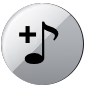
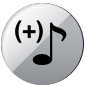
"Tunemarks" working again.

Changed region(s): [[0.2791, 0.2326, 0.7907, 0.7674], [0.1628, 0.2326, 0.4186, 0.5116]]

diff --git a/RP HD/RPViewController.m b/RP HD/RPViewController.m
@@ -15,7 +15,7 @@
 #import "Song.h"
 #import "RPViewController+UI.h"
 
-@interface RPViewController () <UIPopoverControllerDelegate, RPLoginControllerDelegate, RPSleepSetupDelegate, AVAudioSessionDelegate>
+@interface RPViewController () <UIPopoverControllerDelegate, RPLoginControllerDelegate, RPSleepSetupDelegate, AVAudioSessionDelegate, UIActionSheetDelegate>
 
 @end
 
@@ -217,6 +217,9 @@
              DLog(@"Song id is %@.", self.currentSongId);
              // In any case, reset the "add song" capability (we have a new song, it seems).
              self.songIsAlreadySaved = NO;
+             [self.songListButton setImage:[UIImage imageNamed:@"button-addsong"] forState:UIControlStateNormal];
+             [self.songListButton setImage:[UIImage imageNamed:@"button-addsong"] forState:UIControlStateHighlighted];
+             [self.songListButton setImage:[UIImage imageNamed:@"button-addsong"] forState:UIControlStateSelected];
              // Reschedule ourselves at the end of the song
              if(self.theStreamMetadataTimer != nil)
              {
@@ -705,7 +708,30 @@
     [self playPSDNow];
 }
 
-- (IBAction)showSongsList:(id)sender
+- (IBAction)songListAction:(id)sender
+{
+    if(self.songIsAlreadySaved)
+    {
+        [self showSongList];
+        return;
+    }
+    UIActionSheet *theChoices = [[UIActionSheet alloc] initWithTitle:@"What do you want do to?" delegate:self cancelButtonTitle:@"Nothing" destructiveButtonTitle:nil otherButtonTitles:@"Show Song List", @"Save Song", nil];
+    if(UI_USER_INTERFACE_IDIOM() == UIUserInterfaceIdiomPad)
+        [theChoices showFromRect:self.songListButton.frame inView:self.view animated:YES];
+    else
+        [theChoices showInView:self.view];
+}
+
+- (void)actionSheet:(UIActionSheet *)actionSheet clickedButtonAtIndex:(NSInteger)buttonIndex
+{
+    DLog(@"User choose: %d", buttonIndex);
+    if(buttonIndex == 0)
+        [self showSongList];
+    else if(buttonIndex == 1)
+        [self addCurrentSong];
+}
+
+- (void)showSongList
 {
     SongsViewController *theSongsBox = [[SongsViewController alloc] initWithNibName:@"SongsViewController" bundle:[NSBundle mainBundle]];
     if(UI_USER_INTERFACE_IDIOM() == UIUserInterfaceIdiomPad)
@@ -713,16 +739,15 @@
     else
         theSongsBox.modalPresentationStyle = UIModalPresentationFullScreen;
     [self presentViewController:theSongsBox animated:YES completion:nil];
-    theSongsBox = nil;
+    theSongsBox = nil;    
 }
 
-- (IBAction)addCurrentSong:(id)sender
+- (void)addCurrentSong
 {
     // Recover song data...
     NSArray *songPieces = [self.rawMetadataString componentsSeparatedByString:@" - "];
     if([songPieces count] == 2)
     {
-        self.songIsAlreadySaved = YES;
         // No save for RP metadata filler
         if([[songPieces objectAtIndex:0] isEqualToString:@"Commercial-free"])
             return;
@@ -734,8 +759,12 @@
             NSString *temp = [NSString stringWithFormat:@"While saving the song got the error %@, %@", err, [err userInfo]];
             UIAlertView *alert = [[UIAlertView alloc] initWithTitle:@"Error" message:temp delegate:nil cancelButtonTitle:@"Cancel" otherButtonTitles: nil];
             [alert show];
-            self.songIsAlreadySaved = NO;
+            return;
         }
+        self.songIsAlreadySaved = YES;
+        [self.songListButton setImage:[UIImage imageNamed:@"button-songlist"] forState:UIControlStateNormal];
+        [self.songListButton setImage:[UIImage imageNamed:@"button-songlist"] forState:UIControlStateHighlighted];
+        [self.songListButton setImage:[UIImage imageNamed:@"button-songlist"] forState:UIControlStateSelected];
     }
     else
     {

diff --git a/RP HD/RPViewController.h b/RP HD/RPViewController.h
@@ -101,8 +101,7 @@ typedef enum {
 - (IBAction)presentRPWeb:(id)sender;
 - (IBAction)minimizer:(id)sender;
 - (IBAction)startPSD:(id)sender;
-- (IBAction)showSongsList:(id)sender;
-- (IBAction)addCurrentSong:(id)sender;
+- (IBAction)songListAction:(id)sender;
 - (IBAction)sleepSetup:(id)sender;
 - (IBAction)showLyrics:(id)sender;
 
